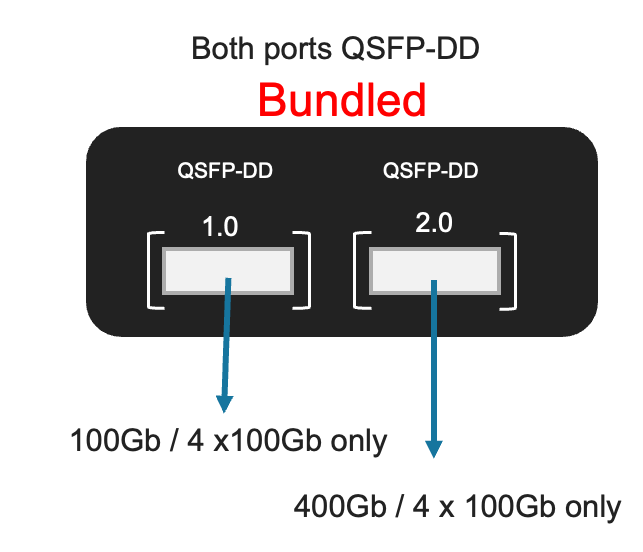
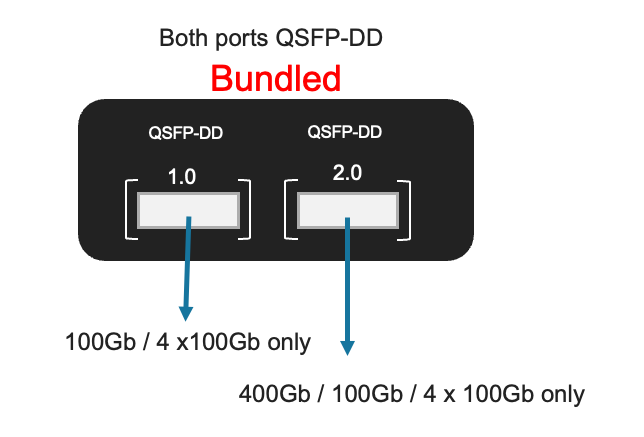
F5OS 1.8.3 port group

diff --git a/docs/velos_networking.rst b/docs/velos_networking.rst
@@ -123,7 +123,7 @@ Below is an example of the chassis partition webUI Port Groups screen with BX110
    :align: center
    :scale: 70%
 
-For the BX520 blade there are two physical ports (1.0 & 2.0). Port 1.0 is a QSFP-DD port, that supports either 100Gb optics or 4 x 100Gb (4 x 100Gb generally available in F5OS-C 1.8.1 release) connections with the proper optic and breakout cable. For the initial release, 100Gb connectivity (SR-4 & LR-4) is supported, 4 x 100Gb support is available in a the F5OS-C 1.8.1 release. The second port (2.0) is also a QSFP-DD port; however it supports 400Gb optics today, and the option of 4 x 100Gb with the proper optic and breakout cables is generally available in the F5OS-C 1.8.1 release. Note, only certain combinations are supported currently. 4 x 100Gb requires both ports to be configured in this mode. You cannot mix 4 x 100Gb on one port with 100Gb or 400Gb on the other port. 
+For the BX520 blade there are two physical ports (1.0 & 2.0). Port 1.0 is a QSFP-DD port, that supports either 100Gb optics or 4 x 100Gb (4 x 100Gb requires F5OS-C 1.8.1 release) connections with the proper optic and breakout cable. For the initial release, 100Gb connectivity (SR-4 & LR-4) is supported, 4 x 100Gb support is available in a the F5OS-C 1.8.1 release. The second port (2.0) is also a QSFP-DD port; however it supports 400Gb optics today, and the option of 4 x 100Gb with the proper optic and breakout cables (F5OS-C 1.8.1 release), and 100Gb (F5OS-C 1.8.3 release). Note, only certain combinations are supported currently. 4 x 100Gb requires both ports to be configured in this mode. You cannot mix 4 x 100Gb on one port with 100Gb or 400Gb on the other port. 
 
 
 .. image:: images/velos_networking/image11a.png
